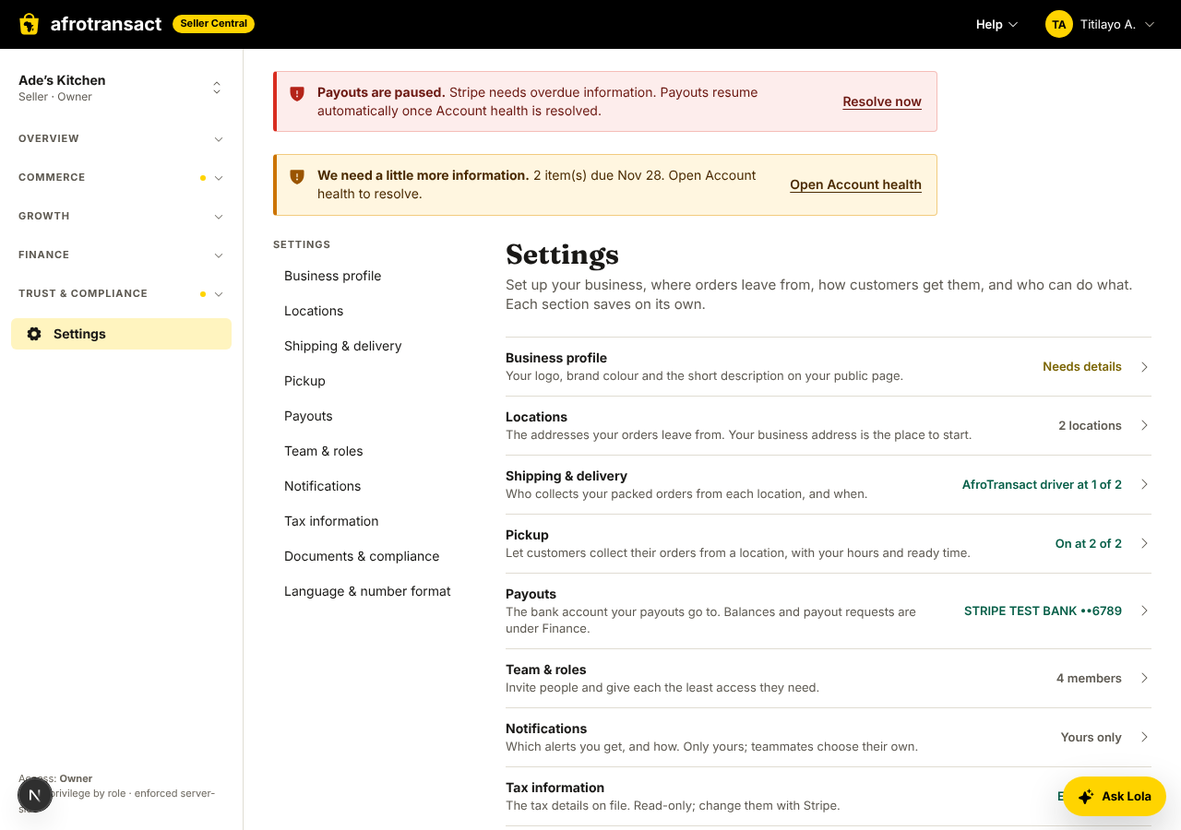
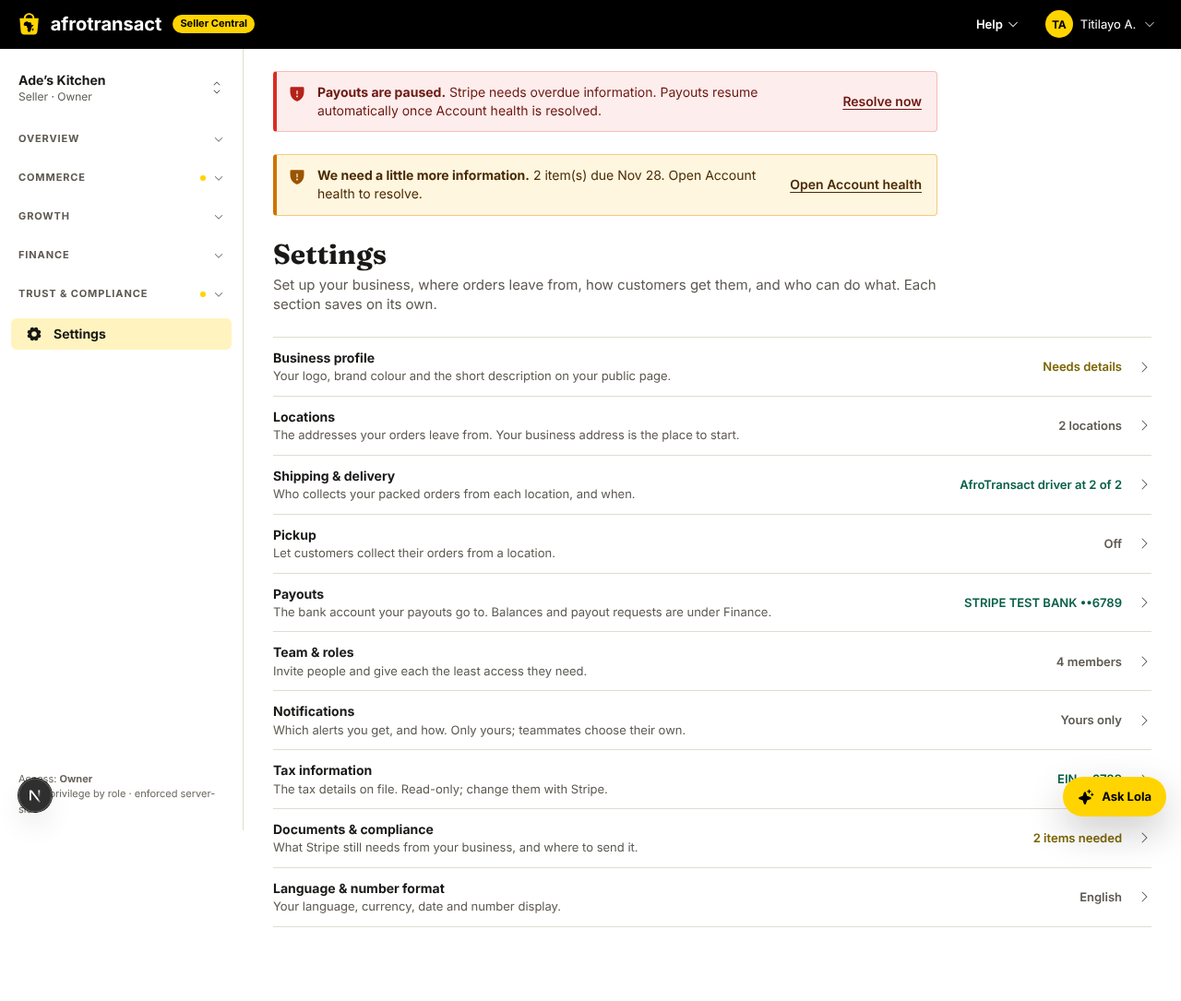
docs+e2e: simplified Pickup page, alignment measurements, before/after screenshots
seller-settings.md and store-pickup.md describe the one switch and the weekly list; a
Playwright spec measures that every control in a row shares a centre line (1px) and height at
1280 and 390; the older pickup specs follow the new controls.

Claude-Session: https://claude.ai/code/session_01HfgZbtz1MjG4pgNpYWvGrJ

diff --git a/tests/e2e/specs/seller-center.settings-alignment.spec.ts b/tests/e2e/specs/seller-center.settings-alignment.spec.ts
@@ -1,0 +1,140 @@
+import { expect, type Locator, type Page, test } from '@playwright/test';
+
+import { SELLER_ORG, setActiveOrg } from '../support/seller';
+
+/* Settings is one column, and every control in a row shares height and vertical centre. Rows are measured in the browser:
+   the centres of the switch, the time selects and the buttons of one row must be within 1px of each other (and the controls
+   the same height), at desktop and phone widths. SHOTS (optional) saves screenshots for docs/engineering/img. */
+test.describe.configure({ mode: 'default' });
+
+const SHOTS = process.env.SHOTS;
+const shot = async (page: Page, name: string) => {
+  if (SHOTS) await page.screenshot({ path: `${SHOTS}/${name}.png`, fullPage: true });
+};
+
+interface Box {
+  cy: number;
+  h: number;
+  label: string;
+}
+
+/** Centre line and height of every visible control (switch, select, input, button) inside a row. */
+async function controlsOf(row: Locator): Promise<Box[]> {
+  return row.evaluate((el) => {
+    const out: { cy: number; h: number; label: string }[] = [];
+    for (const c of el.querySelectorAll<HTMLElement>('button, select, input, [role="switch"]')) {
+      const r = c.getBoundingClientRect();
+      if (r.width === 0 || r.height === 0) continue;
+      out.push({ cy: r.top + r.height / 2, h: r.height, label: c.getAttribute('aria-label') ?? c.textContent?.trim() ?? c.tagName });
+    }
+    return out;
+  });
+}
+
+async function expectAligned(row: Locator, what: string) {
+  const boxes = await controlsOf(row);
+  expect(boxes.length, `${what}: has controls`).toBeGreaterThan(0);
+  const lo = Math.min(...boxes.map((b) => b.cy));
+  const hi = Math.max(...boxes.map((b) => b.cy));
+  expect(hi - lo, `${what}: centres ${JSON.stringify(boxes)}`).toBeLessThanOrEqual(1);
+  const hs = boxes.map((b) => b.h);
+  expect(Math.max(...hs) - Math.min(...hs), `${what}: heights ${JSON.stringify(boxes)}`).toBeLessThanOrEqual(1);
+}
+
+const SIZES = [
+  { name: '1280', width: 1280, height: 900 },
+  { name: '390', width: 390, height: 844 }
+];
+
+test.describe('seller center · settings layout and alignment', () => {
+  test.beforeEach(async ({ request, baseURL }) => {
+    await setActiveOrg(request, baseURL ?? '', SELLER_ORG);
+    const off = await request.put(`${baseURL}/api/bff/v1/seller/ship-from-addresses/sfa-store/customer-pickup`, { data: { enabled: false, hours: [], readyHours: 0 } });
+    expect(off.status(), await off.text()).toBe(200);
+  });
+
+  for (const size of SIZES) {
+    test(`pickup at ${size.name}: one column, rows aligned, no sideways scroll`, async ({ page }) => {
+      await page.setViewportSize({ width: size.width, height: size.height });
+      await page.goto('/settings/pickup');
+      // One content column: no settings sub-nav, a way back to Settings above the page.
+      await expect(page.getByRole('navigation', { name: 'Settings sections' })).toHaveCount(0);
+      await expect(page.getByTestId('settings-back')).toBeVisible();
+      const form = page.getByTestId('pickup-location').first();
+      await expect(form).toBeVisible();
+      await shot(page, `seller-settings-pickup-off-${size.name}`);
+
+      await form.getByRole('switch', { name: 'Let customers collect orders' }).click();
+      await expect(form.getByTestId('weekly-hours')).toBeVisible();
+      await expectAligned(form.getByTestId('weekly-row').first(), 'closed row');
+      await form.getByRole('switch', { name: 'Monday' }).click();
+      await form.getByLabel('From, Monday').selectOption('09:00');
+      await form.getByLabel('To, Monday').selectOption('17:00');
+      await form.getByRole('button', { name: 'Copy to weekdays' }).click();
+      await form.getByLabel('Ready to collect').selectOption('2');
+
+      // Every row of the week: switch, day and both selects on one centre line, one height, one line (not stacked).
+      const rows = form.getByTestId('weekly-row');
+      await expect(rows).toHaveCount(7);
+      for (let i = 0; i < 7; i++) {
+        const row = rows.nth(i);
+        await expectAligned(row, `row ${i + 1}`);
+        if (i < 5) {
+          const from = await row.getByRole('combobox').first().boundingBox();
+          const to = await row.getByRole('combobox').nth(1).boundingBox();
+          expect(Math.abs((from?.y ?? 0) - (to?.y ?? 1)), `row ${i + 1}: from and to share a line`).toBeLessThanOrEqual(1);
+        }
+      }
+      await expectAligned(form.locator('div', { has: page.getByLabel('Ready to collect') }).last(), 'ready row');
+      await expectAligned(form.locator('div', { has: page.getByRole('button', { name: 'Save customer pickup' }) }).last(), 'save row');
+      expect(await page.evaluate(() => document.documentElement.scrollWidth <= document.documentElement.clientWidth)).toBe(true);
+      await shot(page, `seller-settings-pickup-filled-${size.name}`);
+
+      // The save payload: one window per open day, none for closed days.
+      const saved = page.waitForResponse((r) => r.url().includes('/customer-pickup') && r.request().method() === 'PUT');
+      await form.getByRole('button', { name: 'Save customer pickup' }).click();
+      const body = (await (await saved).request().postDataJSON()) as { enabled: boolean; hours: { day: string; opens: string; closes: string }[]; readyHours: number; hoursConfirmed: boolean };
+      expect(body).toMatchObject({ enabled: true, readyHours: 2, hoursConfirmed: true });
+      expect(body.hours.map((h) => h.day)).toEqual(['MONDAY', 'TUESDAY', 'WEDNESDAY', 'THURSDAY', 'FRIDAY']);
+      await expect(page.getByText('Customer pickup saved').first()).toBeVisible();
+      await shot(page, `seller-settings-pickup-after-${size.name}`);
+    });
+
+    test(`shipping & delivery at ${size.name}: driver pickup rows aligned`, async ({ page }) => {
+      await page.setViewportSize({ width: size.width, height: size.height });
+      await page.goto('/settings/shipping');
+      const katy = page.getByTestId('shipping-location').nth(1).getByRole('form', { name: 'AfroTransact pickup' });
+      await expect(katy).toBeVisible();
+      const sw = katy.getByRole('switch', { name: /AfroTransact picks up here/ });
+      if ((await sw.getAttribute('aria-checked')) !== 'true') await sw.click();
+      await expect(katy.getByTestId('weekly-hours')).toBeVisible();
+      await katy.getByRole('switch', { name: 'Monday' }).click();
+      await katy.getByLabel('From, Monday').selectOption('09:00');
+      await katy.getByLabel('To, Monday').selectOption('17:00');
+      const rows = katy.getByTestId('weekly-row');
+      for (let i = 0; i < 7; i++) await expectAligned(rows.nth(i), `driver row ${i + 1}`);
+      await shot(page, `seller-settings-shipping-${size.name}`);
+    });
+
+    test(`locations at ${size.name}: field rows and buttons share a centre line`, async ({ page }) => {
+      await page.setViewportSize({ width: size.width, height: size.height });
+      await page.goto('/settings/locations');
+      await expect(page.getByTestId('ship-from-address').first()).toBeVisible();
+      // The row of buttons under each address (Edit, Set as default, Remove...) is one line of equal-height controls.
+      const actionRows = page.getByTestId('ship-from-address').first().locator('div:has(> button):not(:has(> div))');
+      const n = await actionRows.count();
+      for (let i = 0; i < n; i++) {
+        const boxes = await controlsOf(actionRows.nth(i));
+        if (boxes.length < 2) continue;
+        // On a phone buttons may wrap to a second line; each line is checked on its own.
+        const lines = new Map<number, Box[]>();
+        for (const b of boxes) lines.set(Math.round(b.cy / 4), [...(lines.get(Math.round(b.cy / 4)) ?? []), b]);
+        for (const line of lines.values()) {
+          const hs = line.map((b) => b.h);
+          expect(Math.max(...hs) - Math.min(...hs), `locations action row ${i}: ${JSON.stringify(line)}`).toBeLessThanOrEqual(1);
+        }
+      }
+      await shot(page, `seller-settings-locations-${size.name}`);
+    });
+  }
+});

diff --git a/tests/e2e/specs/seller-center.pickup-prompt.spec.ts b/tests/e2e/specs/seller-center.pickup-prompt.spec.ts
@@ -14,7 +14,7 @@ test.describe('seller center · pickup prompt', () => {
     expect(off.status(), await off.text()).toBe(200);
   });
 
-  test('home points to Settings > Pickup, which is pre-filled, stays off until confirmed, and turns pickup on only then', async ({ page, request, baseURL }, testInfo) => {
+  test('home points to Settings > Pickup, stays off until the seller switches it on and saves valid hours', async ({ page, request, baseURL }, testInfo) => {
     await page.goto('/');
     const card = page.getByTestId('pickup-prompt');
     await expect(card).toBeVisible();
@@ -26,25 +26,26 @@ test.describe('seller center · pickup prompt', () => {
 
     const form = page.getByTestId('pickup-location').first();
     await expect(form.getByTestId('pickup-address')).toContainText('9800 Bissonnet St');
-    await form.getByLabel(/Customers can collect orders from this location/).check();
-    await expect(form.getByTestId('pickup-preview')).toContainText('Shoppers near ZIP 77036 will see Pickup');
+    // One switch is the only on/off, and it is off: nothing is on or filled in until the seller says so.
+    const sw = form.getByRole('switch', { name: 'Let customers collect orders' });
+    await expect(sw).toHaveAttribute('aria-checked', 'false');
+    await expect(form.getByRole('button', { name: 'Save customer pickup' })).toBeDisabled();
+    await sw.click();
     await expectNoSeriousA11yViolations(page, testInfo, { page: 'seller settings pickup' });
-    const turnOn = form.getByRole('button', { name: 'Turn on pickup' });
-    await expect(turnOn).toBeDisabled();
-    await form.getByRole('button', { name: 'Add a pickup window' }).click();
-    await form.getByLabel('Opens, window 1').fill('10:00');
-    await form.getByLabel('Closes, window 1').fill('16:00');
-    await form.getByLabel('Ready after (hours)').fill('3');
-    await expect(turnOn).toBeDisabled();
-    await form.getByLabel('Someone will be at this address during these hours.').check();
-    await expect(turnOn).toBeEnabled();
-    // Still off on the server until the button is pressed.
+    const save = form.getByRole('button', { name: 'Save customer pickup' });
+    await expect(save).toBeDisabled();
+    await form.getByRole('switch', { name: 'Monday' }).click();
+    await form.getByLabel('From, Monday').selectOption('10:00');
+    await form.getByLabel('To, Monday').selectOption('16:00');
+    await form.getByLabel('Ready to collect').selectOption('4');
+    await expect(save).toBeEnabled();
+    // Still off on the server until Save is pressed.
     const before = await (await request.get(`${baseURL}/api/bff/v1/seller/ship-from-addresses`)).json();
     expect(before.items[0].customerPickup.enabled).toBe(false);
-    await turnOn.click();
+    await save.click();
     await expect(page.getByText('Customer pickup saved').first()).toBeVisible();
     const after = await (await request.get(`${baseURL}/api/bff/v1/seller/ship-from-addresses`)).json();
-    expect(after.items[0].customerPickup).toMatchObject({ enabled: true, readyHours: 3 });
+    expect(after.items[0].customerPickup).toMatchObject({ enabled: true, readyHours: 4, hours: [{ day: 'MONDAY', opens: '10:00', closes: '16:00' }] });
     await page.goto('/');
     await expect(page.getByTestId('pickup-prompt')).toHaveCount(0);
   });

diff --git a/tests/e2e/specs/seller-center.local-delivery.spec.ts b/tests/e2e/specs/seller-center.local-delivery.spec.ts
@@ -22,25 +22,26 @@ test.describe('seller center · AfroTransact pickup (S255)', () => {
     await page.goto('/settings/shipping');
     await expect(page.getByRole('heading', { level: 1 })).toHaveText(/Shipping & delivery/);
     const katy = page.getByTestId('shipping-location').filter({ hasText: 'Cinco Ranch' });
-    const toggle = atp(katy).getByLabel(/AfroTransact picks up here/);
-    if (await toggle.isChecked()) {
-      await toggle.uncheck();
+    const toggle = atp(katy).getByRole('switch', { name: /AfroTransact picks up here/ });
+    if ((await toggle.getAttribute('aria-checked')) === 'true') {
+      await toggle.click();
       await atp(katy).getByRole('button', { name: 'Save pickup settings' }).click();
       await expect(page.getByText('AfroTransact pickup updated').first()).toBeVisible();
     }
     await expectNoSeriousA11yViolations(page, testInfo, { page: 'seller shipping settings' });
 
-    await atp(katy).getByLabel(/AfroTransact picks up here/).check();
-    await expect(atp(katy).getByTestId('pickup-window').first()).toBeVisible();
-    await atp(katy).getByLabel('Opens, window 1').fill('10:00');
-    await atp(katy).getByLabel('Closes, window 1').fill('16:00');
+    await toggle.click();
+    await expect(atp(katy).getByTestId('weekly-row')).toHaveCount(7);
+    await atp(katy).getByRole('switch', { name: 'Monday' }).click();
+    await atp(katy).getByLabel('From, Monday').selectOption('10:00');
+    await atp(katy).getByLabel('To, Monday').selectOption('16:00');
     await atp(katy).getByRole('button', { name: 'Save pickup settings' }).click();
     await expect(page.getByText('AfroTransact pickup updated').first()).toBeVisible();
 
     await page.reload();
     const after = page.getByTestId('shipping-location').filter({ hasText: 'Cinco Ranch' });
-    await expect(atp(after).getByLabel(/AfroTransact picks up here/)).toBeChecked();
-    await expect(atp(after).getByLabel('Opens, window 1')).toHaveValue('10:00');
+    await expect(atp(after).getByRole('switch', { name: /AfroTransact picks up here/ })).toHaveAttribute('aria-checked', 'true');
+    await expect(atp(after).getByLabel('From, Monday')).toHaveValue('10:00');
     await expectNoSeriousA11yViolations(page, testInfo, { page: 'seller shipping settings' });
   });
 });

diff --git a/docs/engineering/seller-settings.md b/docs/engineering/seller-settings.md
@@ -7,14 +7,16 @@ form lived under Orders > Ship-from & pickup ("we need to really isolate setting
 ## The sections
 
 The Settings home (`/settings`) is a flat list, Amazon Seller Central style (no cards): a name, one line about it and a status.
-Desktop also has a left sub-nav; on a phone a "Settings" link sits above the section. Statuses come from saved state only.
+Settings is **one content column**: there is no sub-nav column (the app sidebar is the only navigation beside it). A section page
+has a "Settings" link above it to go back; each section stays its own route with its own permission. Statuses come from saved
+state only.
 
 | Section (route) | What it holds (single source of truth) | Permission (module in the access matrix) | Status shown | Provider Hub |
 |---|---|---|---|---|
 | Business profile `/settings/business` | logo, brand colour, public description (`/v1/seller/business-page`); "Offer services" application | Team (owner, admin) | Complete / Needs details | yes |
 | Locations `/settings/locations` | ship-from addresses, default, where geo placed them; "Use my business address" for the first one | Orders | "2 locations" / None yet | no |
-| Shipping & delivery `/settings/shipping` | per location: AfroTransact driver pickup on/off and its hours (who collects packed orders) | Orders | "AfroTransact driver at 1 of 2" / You ship | no |
-| Pickup `/settings/pickup` | per location: customers collect orders (enable, hours, ready time, "someone will be there"); address read-only with a link to Locations | Orders | "On at 1 of 2" / Off | no |
+| Shipping & delivery `/settings/shipping` | per location: AfroTransact driver pickup on/off and its hours, the same weekly list as Pickup (who collects packed orders) | Orders | "AfroTransact driver at 1 of 2" / You ship | no |
+| Pickup `/settings/pickup` | per location: customers collect orders (one switch, the week's hours, ready time); address read-only with a link to Locations | Orders | "On at 1 of 2" / Off | no |
 | Payouts `/settings/payouts` | the bank account payouts go to (held by Stripe, changed in Stripe's secure forms); balances stay in Finance > Payouts | Payouts (owner, finance) | bank name and last 4 / Paused / No bank account | yes |
 | Team & roles `/settings/team` | members, invitations, roles | Team | "4 members" | yes |
 | Notifications `/settings/notifications` | this member's alert topics and quiet hours (personal) | none: any member | "Yours only" | yes |
@@ -23,7 +25,7 @@ Desktop also has a left sub-nav; on a phone a "Settings" link sits above the sec
 | Language & number format `/settings/language` | language, time zone, date and number display, table density (personal) | none: any member | the language | yes |
 
 The access matrix (identity seed) is unchanged. A section opens with at least View on its module and saves with Edit; a role
-without the module does not see the section in the list or the sub-nav, and a direct visit shows "You don't have access". Roles
+without the module does not see the section in the list, and a direct visit shows "You don't have access". Roles
 with View only get the "Read-only." note and no save buttons. (A dedicated `settings` permission per section would need an
 identity migration: see the owner decisions in the story.)
 
@@ -47,14 +49,42 @@ prompt card that links there (Not now / Don't ask again are server-side per orga
 
 carrier-gateway refuses off to on without `hoursConfirmed` and a valid window; gateway-bff checks first (422
 `PICKUP_HOURS_NOT_CONFIRMED`); who and when are recorded server side; pickup is never on by default. The Pickup page only sends
-a turn-on when hours are typed, a ready time is typed and the box is ticked (`lib/pickup-settings.ts`), and always with
-`hoursConfirmed: true`. Editing a place that stays on keeps the first record.
+a turn-on when at least one day is open with a valid from and to, and a ready time is chosen (`lib/pickup-settings.ts`), and always
+with `hoursConfirmed: true`. The confirmation is the one switch: turning "Let customers collect orders" on says, in one line under it,
+that someone will be at the address during the open hours; there is no separate checkbox. Editing a place that stays on keeps the first record.
+
+## The Pickup page (one switch, one week)
+
+Per location, top to bottom: the name, the address as one read-only line with "Change in Locations", the switch, one line under it
+(the confirmation; once on, "On since ..."), and only when the switch is on: the week, the ready time and **Save**.
+
+- **The week** is seven rows, Mon to Sun. Each row has an open/closed switch, the day, and one "From" and one "To" on the same row
+  (native selects in 30-minute steps, "9:00 AM"; no clock inputs). A closed day shows "Closed". All seven start closed: nothing is
+  prefilled. "Copy to weekdays" copies the first open day's hours to Mon-Fri; "Same every day" copies them to all seven (both wait
+  until a day has valid hours).
+- **Mapping to the API** (unchanged): one window per open day, in week order; closed days send no window; shared hours still save
+  per-day windows. A second window on a day that already exists on the server is kept (not shown, not dropped).
+- **Ready time** is a select: Same day (0), 1 hour, 2 hours, 4 hours, Next day (24). A saved value that is not one of these
+  (for example 3) is shown as "3 hours" so editing never changes it silently. It starts empty ("Choose") and is required.
+- **Save** is enabled when there is a change and it is valid. Why not is one plain line beside the button ("Open at least one day.",
+  "Choose from and to for each open day.", "To must be later than from.", "Choose when orders are ready to collect.") and the
+  offending selects are marked invalid.
+- The driver pickup form on Shipping & delivery uses the same `WeeklyHours` list (switch, week, Save); it no longer prefills 09:00-17:00.
+
+### Alignment rule
+
+Every control in a row has the same height (`--at-size-control`: 40px, 44px on touch) and the same vertical centre. The list uses bare
+`<select>`s (the form `Field` wrapper adds a label and a message line, which is what pushed the old row out of line) and a 40px-tall
+switch hit area. `tests/e2e/specs/seller-center.settings-alignment.spec.ts` measures it in the browser at 1280 and 390: in each row
+(closed and open, Pickup and driver pickup, the ready row, the Save row) the centres are within 1px and the heights equal; from and
+to stay on one line at 390; no sideways scroll; the save payload has one window per open day.
 
 ## Code map
 
 - `web/apps/seller-center/src/lib/settings-sections.ts`: the section list, visibility and edit rules, status wording (pure, tested).
-- `src/components/settings/`: `SettingsShell` (sub-nav, `SettingsPage`, access hooks), `SettingsLanding`, `LocationsView`,
-  `ShippingView`, `PickupView`, `MoneySettingsViews` (payouts, tax, documents), `PersonalSettingsViews`, `BusinessAddressStart`.
+- `src/lib/weekly-hours.ts` (week rows <-> windows, copy, validation, time choices) and `src/lib/pickup-settings.ts` (the Pickup draft, `pickupCanSave`, `pickupSave`): pure, tested in `test/weekly-hours.test.ts` and `test/settings-sections.test.ts`.
+- `src/components/settings/`: `SettingsShell` (one column and the back link, `SettingsPage`, access hooks), `SettingsLanding`, `LocationsView`,
+  `ShippingView`, `PickupView`, `WeeklyHours` (shared by both), (`src/components/ui/Switch.tsx` is the switch), `MoneySettingsViews` (payouts, tax, documents), `PersonalSettingsViews`, `BusinessAddressStart`.
 - `src/app/(portal)/settings/<section>/page.tsx`: one route per section, under `settings/layout.tsx`.
 - `next.config.ts`: the redirects from the old routes.
 - No BFF or contract change: every setting uses the endpoints it already had. The landing's statuses are composed in the browser
@@ -66,17 +96,24 @@ a turn-on when hours are typed, a ready time is typed and the box is ticked (`li
 Plain wording; the English copy never uses the word "offer" for sellers' own items (the Business profile field is "What you sell
 or do"); names, not ids; tokens only; strings in all five locales (en, fr, es, ar, yo; Arabic is right to left, so the list uses
 logical alignment and the chevrons flip with `rtl:`). The four non-English catalogues for the new keys are machine translations
-marked for review.
+marked for review (`$meta.needsReview`); this includes the short and full day names, "Copy to weekdays", "Same every day" and the ready-time choices.
 
 ## Pictures (mock BFF, `NEXT_PUBLIC_API_MOCKS=1`)
 
+Before (the three-column page with stacked controls and native clock inputs) and after, at 1280 and 390:
+
+![Pickup, before the simplification (desktop)](img/seller-settings-pickup-redesign-before-1280.png)
+![Pickup, before the simplification (phone)](img/seller-settings-pickup-redesign-before-390.png)
+![Pickup, off (desktop)](img/seller-settings-pickup-off-1280.png)
+![Pickup, off (phone)](img/seller-settings-pickup-off-390.png)
+![Pickup, week filled in (desktop)](img/seller-settings-pickup-filled-1280.png)
+![Pickup, week filled in (phone)](img/seller-settings-pickup-filled-390.png)
+![Pickup, saved (desktop)](img/seller-settings-pickup-saved-1280.png)
+![Pickup, saved (phone)](img/seller-settings-pickup-saved-390.png)
+![Shipping & delivery, driver pickup hours (desktop)](img/seller-settings-shipping-1280.png)
+![Shipping & delivery, driver pickup hours (phone)](img/seller-settings-shipping-390.png)
 ![Settings home, desktop](img/seller-settings-landing-1280.png)
 ![Settings home, phone](img/seller-settings-landing-390.png)
-![Pickup, before enabling (desktop)](img/seller-settings-pickup-before-1280.png)
-![Pickup, filled in (phone)](img/seller-settings-pickup-filled-390.png)
-![Pickup, after enabling (desktop)](img/seller-settings-pickup-after-1280.png)
-![Pickup, before enabling (phone)](img/seller-settings-pickup-before-390.png)
-![Pickup, after enabling (phone)](img/seller-settings-pickup-after-390.png)
 
 ## The crash that started this
 

diff --git a/docs/engineering/store-pickup.md b/docs/engineering/store-pickup.md
@@ -6,8 +6,9 @@ the seed only creates one seller pickup place (Mama Put's kitchen, `tools/seed/s
 
 ## What must be true for a seller's package to offer Pickup
 
-1. **The seller turned it on**: Seller Center > Settings > Pickup > the location > "Customers can collect orders from this
-   location", with at least one opening window, a ready time and "Someone will be at this address during these hours". That saves an **active** carrier-gateway pickup location of kind `SELLER`, id =
+1. **The seller turned it on**: Seller Center > Settings > Pickup > the location > the switch "Let customers collect orders",
+   with at least one open day (from and to), a ready time and Save. Turning the switch on is the confirmation that someone will be
+   at the address during the open hours. That saves an **active** carrier-gateway pickup location of kind `SELLER`, id =
    the ship-from address id, owner = the seller's organisation (`gateway-bff` `SetCustomerPickup`).
 2. **The shopper has a delivery address with a 5 digit ZIP** (the summary has no pickup before that).
 3. **The place is near the address**: within 60 miles (`pickupRadiusMiles`) when both the place and the address have coordinates,
@@ -38,13 +39,14 @@ Sellers are **prompted** to enable store pickup; it is never on by default and n
 explicit confirmation.
 
 - **Where it is turned on**: Settings > Pickup (its own page, see `docs/engineering/seller-settings.md`). The location's address is
-  **already there** and shown read-only, with a link to change it under Settings > Locations. A seller with no location yet
+  **already there** and shown read-only as one line, with a link to change it under Settings > Locations. A seller with no location yet
   gets one click, "Use my business address" (Settings > Locations and Settings > Pickup), which saves the address from sign-up as
-  the default location; nothing creates a location, and nothing turns pickup on, without the seller's click. The seller only enables pickup and confirms the opening hours, the ready time and
-  "Someone will be at this address during these hours." Opening hours and the ready time start **empty and required**; nothing
-  is invented. It says in plain words: "Customers will be able to collect orders from this address during these hours. Only
-  switch this on if someone will be there." and previews "Shoppers near ZIP 77002 will see Pickup". "Turn on pickup" stays
-  disabled until the hours are valid, a ready time is typed and the box is ticked.
+  the default location; nothing creates a location, and nothing turns pickup on, without the seller's click. The seller switches
+  pickup on, opens the days they will be there (Mon to Sun rows with one from and one to each, "Copy to weekdays" / "Same every
+  day" to set them fast), picks the ready time (Same day, 1 hour, 2 hours, 4 hours, Next day) and saves. All seven days start
+  **closed** and the ready time starts **empty and required**; nothing is invented. The one line under the switch says "Turning this
+  on confirms someone will be at this address during your open hours." Save stays disabled until at least one day is open with
+  a to later than its from and a ready time is chosen. One window is saved per open day; closed days send none.
 - **The prompt**: Seller Center home shows a small card ("Let customers collect orders from your address") to an approved seller
   organisation that has a ship-from address and **no active pickup place**. It only links to Settings > Pickup ("Set up
   pickup") with **Not now / Don't ask again**; it never switches anything on and has no form. Orders shows a one-line nudge
